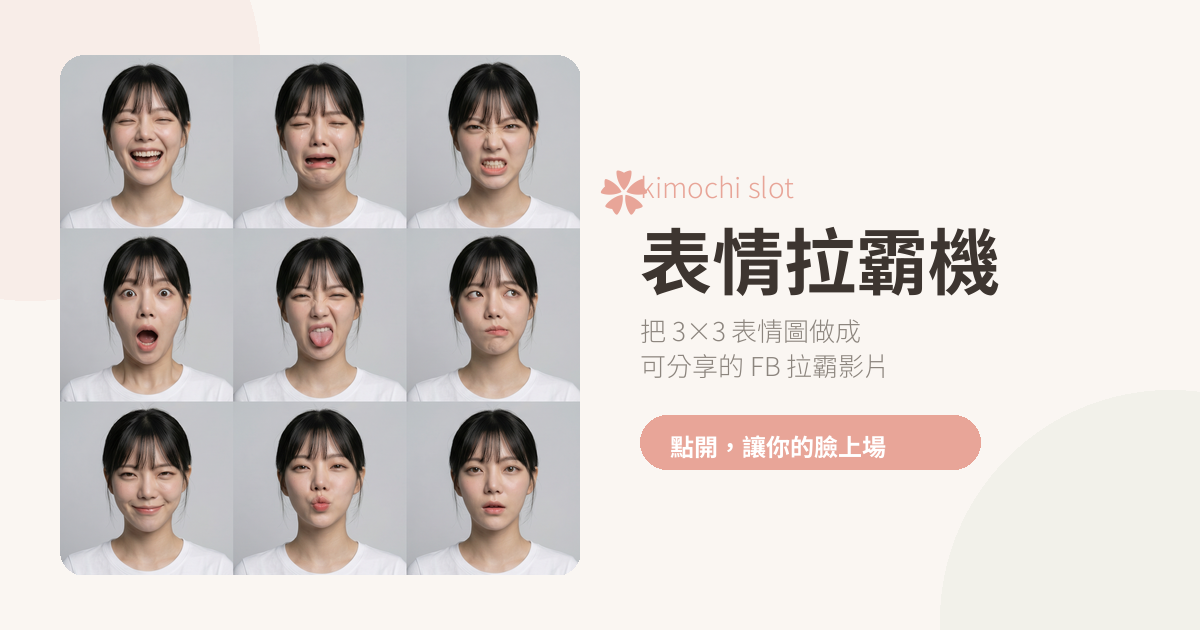
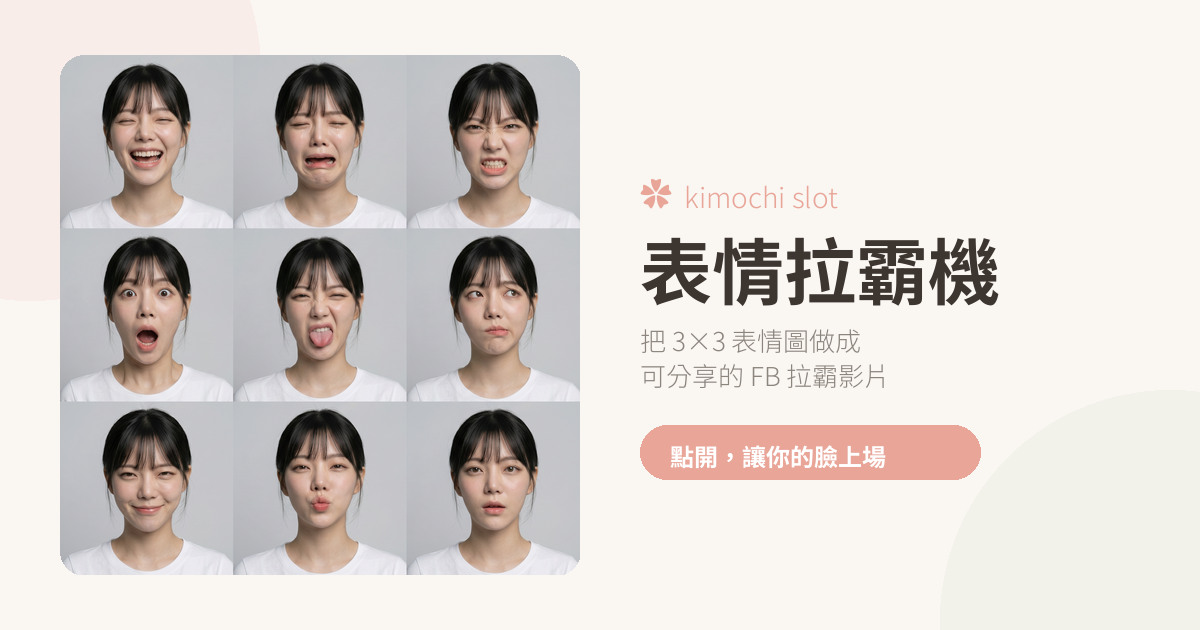
Fix OG image: sakura mark was overlapping "kimochi slot" text
Previous layout put the sakura absolutely positioned 40px to the left
of text_x, which at 48px size collided with the start of "kimochi slot".
Inline the mark on the same baseline as the text instead, with a 44px
gap between the two.

Changed region(s): [[0.5242, 0.3619, 0.8325, 0.7841], [0.4933, 0.2714, 0.7092, 0.3317]]

diff --git a/make_og.py b/make_og.py
@@ -65,25 +65,27 @@ def main() -> None:
     sub_font = ImageFont.truetype(FONT_REG, 26)
     cta_font = ImageFont.truetype(FONT_BOLD, 24)
 
-    # "kimochi slot" accent
-    d.text((text_x, 165), "kimochi slot", fill=ACCENT, font=ja_font)
+    # Sakura + "kimochi slot" accent on one baseline
+    sakura_font = ImageFont.truetype(FONT_BOLD, 32)
+    d.text((text_x, 168), "✿", fill=ACCENT, font=sakura_font)
+    d.text((text_x + 44, 175), "kimochi slot", fill=ACCENT, font=ja_font)
     # Title
-    d.text((text_x, 205), "表情拉霸機", fill=TEXT, font=title_font)
+    d.text((text_x, 215), "表情拉霸機", fill=TEXT, font=title_font)
     # Tagline (two lines)
     d.text(
-        (text_x, 310),
+        (text_x, 320),
         "把 3×3 表情圖做成",
         fill=MUTED,
         font=sub_font,
     )
     d.text(
-        (text_x, 345),
+        (text_x, 355),
         "可分享的 FB 拉霸影片",
         fill=MUTED,
         font=sub_font,
     )
     # CTA pill
-    pill_y = 415
+    pill_y = 425
     pill_h = 54
     pill_w = 340
     d.rounded_rectangle(
@@ -97,10 +99,6 @@ def main() -> None:
         fill=(255, 255, 255),
         font=cta_font,
     )
-
-    # Sakura accent
-    sakura_font = ImageFont.truetype(FONT_BOLD, 48)
-    d.text((text_x - 40, 155), "✿", fill=(232, 165, 152, 180), font=sakura_font)
 
     canvas = canvas.convert("RGB")
     out_path = ROOT / "og.png"